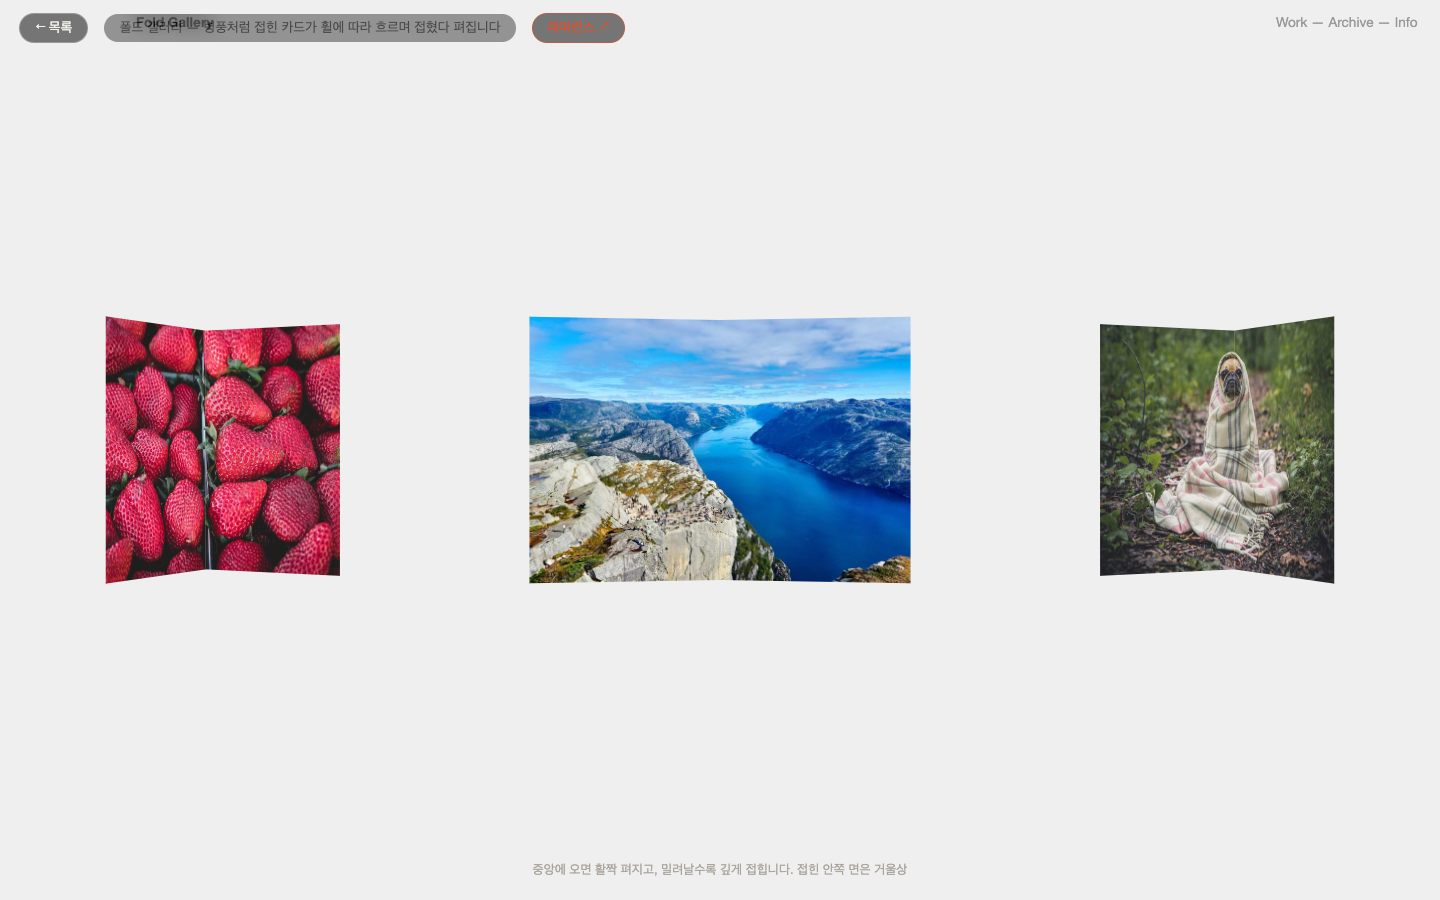
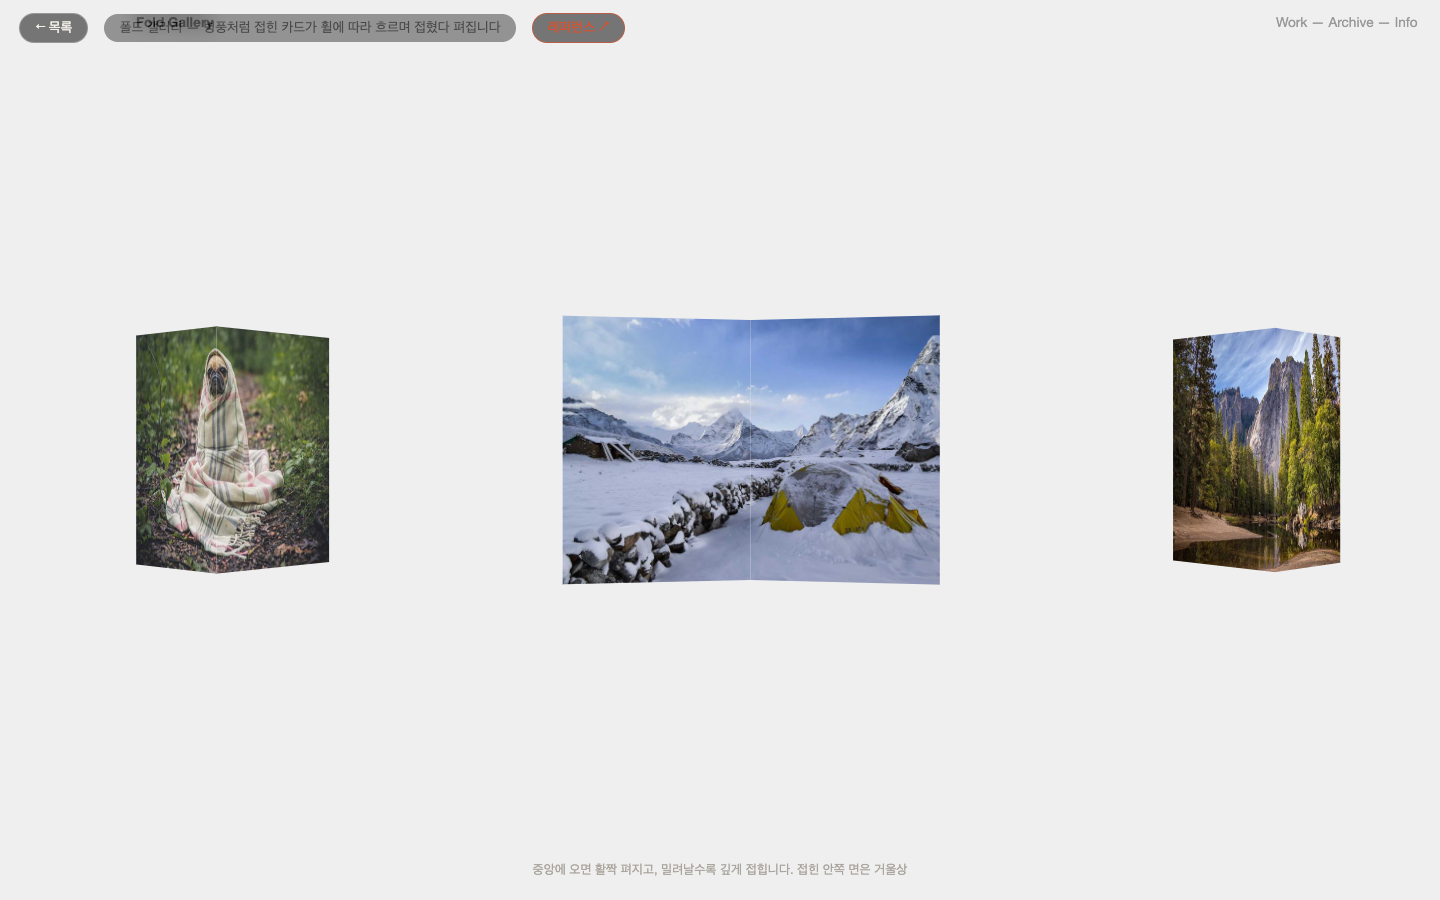
폴드 갤러리 재보정 — 산/골 교차 병풍 접힘으로 링 모드와 차별화, 곡률은 은은하게

Changed region(s): [[0.3438, 0.3422, 0.6562, 0.6533], [0.75, 0.3422, 0.9375, 0.6533], [0.0625, 0.3422, 0.25, 0.6533]]

diff --git a/interaction-patterns/fold-gallery.html b/interaction-patterns/fold-gallery.html
@@ -54,15 +54,17 @@ addEventListener('wheel', e => { vel += e.deltaY * .5; }, { passive: true });
   folds.forEach((f, i) => {
     let x = (i * GAP - off + TOTAL * 1.5) % TOTAL - TOTAL / 2;
     const t = Math.min(1, Math.abs(x) / (GAP * 1.4));   // 중앙거리 0~1
-    const foldDeg = 12 + t * 58;                        // 중앙 12° → 가장자리 70°
-    // 행 전체의 3D 곡률: 옆 카드는 안쪽으로 꺾이고(rotateY) 뒤로 물러남(translateZ)
-    const bendDeg = -x * 0.045;                         // 원통 밴드처럼 휘어짐
-    const z = -(x * x) / 2200;
+    const foldDeg = 14 + t * 62;                        // 중앙 14° → 가장자리 76°
+    // 은은한 깊이 곡률만(링과 겹치지 않게 절제) — 정체성은 접힘 그 자체
+    const bendDeg = -x * 0.02;
+    const z = -(x * x) / 3400;
     f.el.style.transform = `translateX(${x}px) translateZ(${z}px) rotateY(${bendDeg}deg)`;
     f.el.style.zIndex = Math.round(100 - t * 90);
     f.el.style.opacity = t > .98 ? 0 : 1;               // 화면 밖 여분 숨김
-    f.L.style.transform = `rotateY(${ foldDeg}deg)`;    // 왼면은 안으로
-    f.R.style.transform = `rotateY(${-foldDeg}deg)`;    // 오른면도 안으로 → 병풍
+    // 병풍 리듬: 홀수 아이템은 골(valley), 짝수 아이템은 산(ridge)으로 접힘 교차
+    const dir = i % 2 ? -1 : 1;
+    f.L.style.transform = `rotateY(${ foldDeg * dir}deg)`;
+    f.R.style.transform = `rotateY(${-foldDeg * dir}deg)`;
   });
   requestAnimationFrame(loop);
 })();
